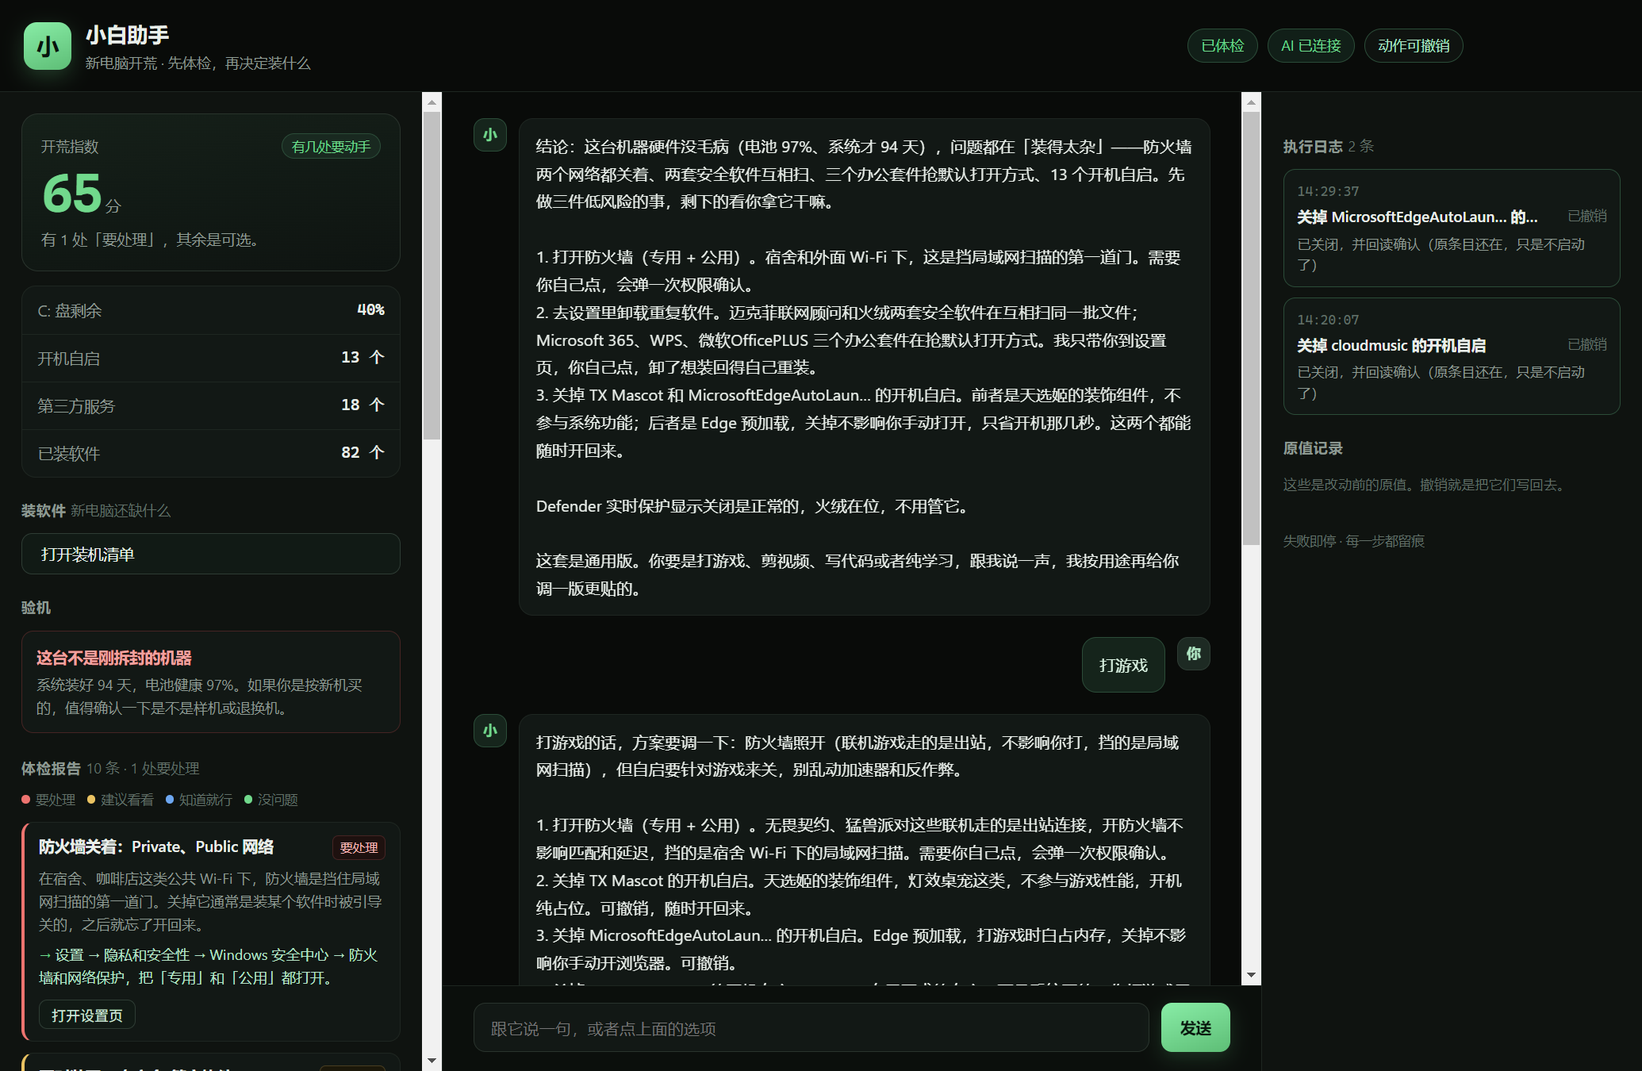
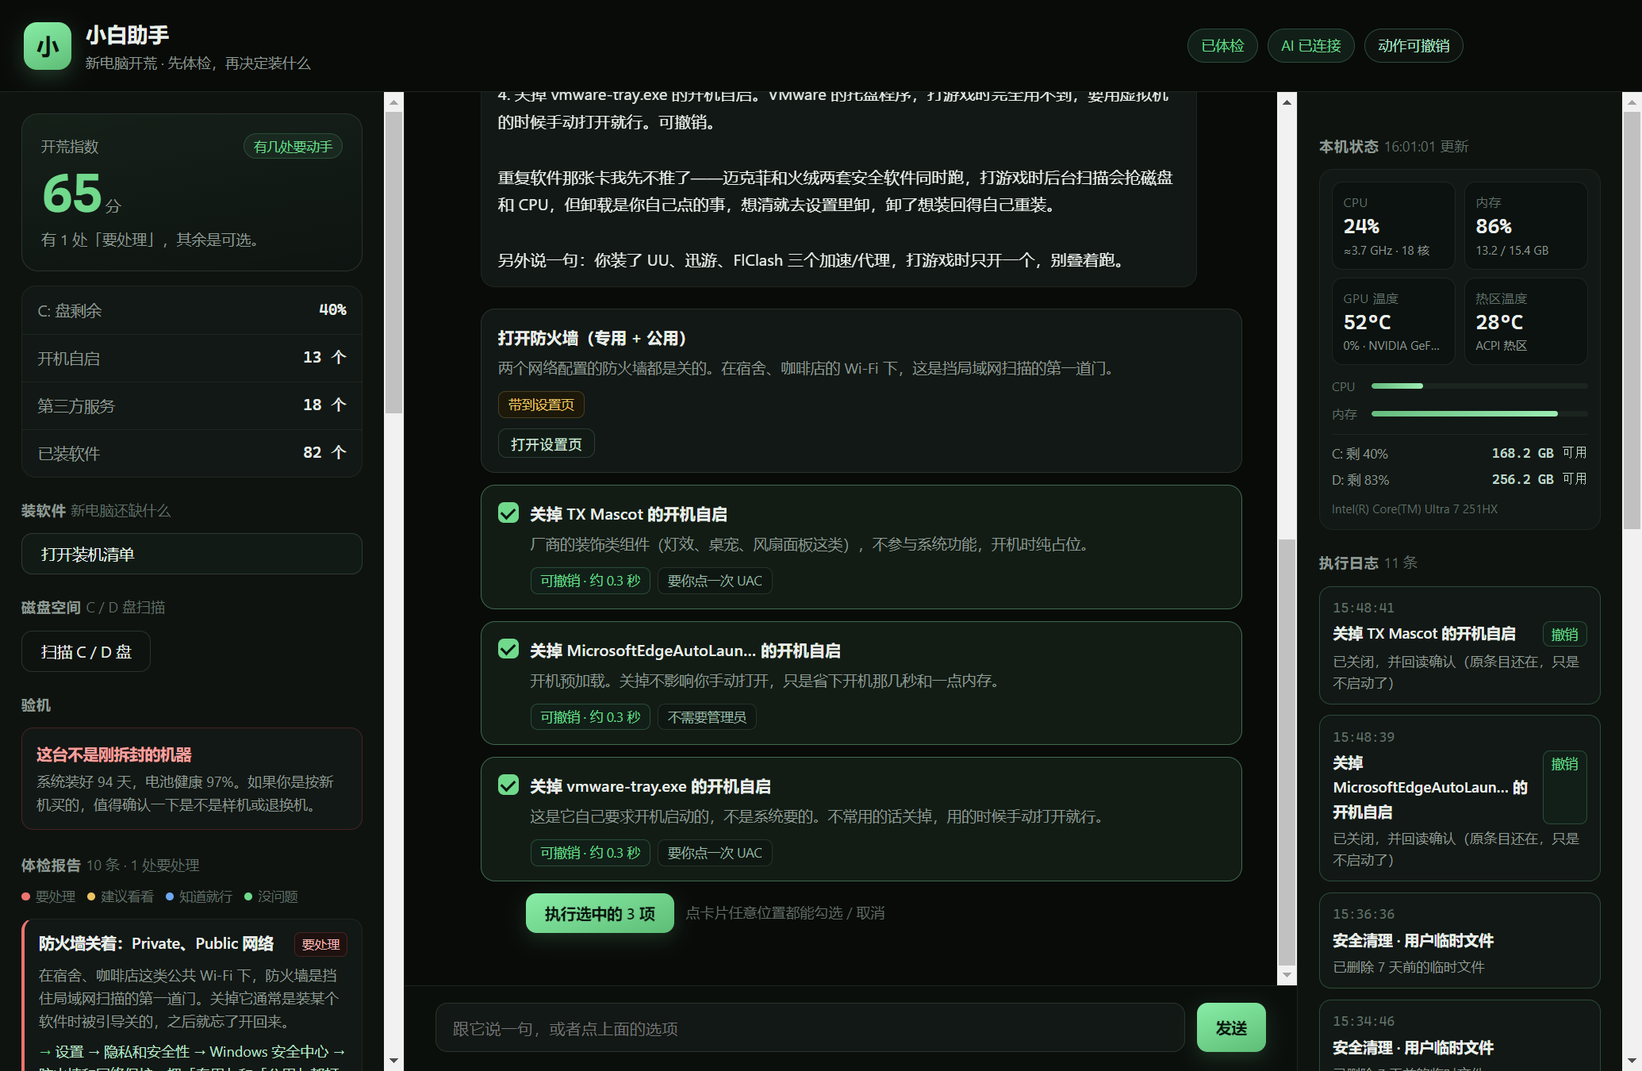
v0.2.15: read-only live CPU, memory, GPU and thermal status panel

diff --git a/docs/agent-demo.html b/docs/agent-demo.html
@@ -243,7 +243,27 @@ body.desktop .top .pill,body.desktop .top button{-webkit-app-region:no-drag}
 .btn.clean{background:#2a1f12;color:#ffcf9a;border-color:#5a4124}
 .btn.clean:hover{border-color:#8a6234}
 .btn.clean:disabled{opacity:.45;cursor:not-allowed}
-@media (max-width:640px){.disk-drives{grid-template-columns:1fr}}.demo-bar{flex:0 0 auto;display:flex;gap:10px;align-items:center;justify-content:center;padding:7px 14px;font-size:12.5px;color:#08150e;background:linear-gradient(90deg,#3ddc84,#7ff0b4)}
+@media (max-width:640px){.disk-drives{grid-template-columns:1fr}}
+
+/* 本机状态（只读遥测） */
+.live{background:var(--panel2);border:1px solid var(--line);border-radius:12px;padding:10px;display:flex;flex-direction:column;gap:8px}
+.live-grid{display:grid;grid-template-columns:1fr 1fr;gap:7px}
+.live-cell{border:1px solid var(--line);border-radius:9px;background:#0b1210;padding:8px 9px;min-width:0}
+.live-cell span{display:block;font-size:10.5px;color:var(--dim2);letter-spacing:.4px}
+.live-cell b{display:block;font:600 19px/1.25 var(--mono);color:var(--text);margin-top:1px}
+.live-cell b.hot{color:#ffb27a}
+.live-cell b.muted-v{color:var(--dim2);font-size:15px}
+.live-cell small{display:block;font-size:10px;color:var(--dim);line-height:1.45;margin-top:2px;overflow:hidden;text-overflow:ellipsis;white-space:nowrap}
+.live-bars{display:flex;flex-direction:column;gap:6px;margin-top:1px}
+.live-bar{display:flex;align-items:center;gap:7px;font-size:10.5px;color:var(--dim2)}
+.live-bar span{flex:0 0 26px}
+.live-bar i{flex:1;height:5px;border-radius:99px;background:#1a2420;overflow:hidden}
+.live-bar i em{display:block;height:100%;border-radius:99px;background:linear-gradient(90deg,#3fbf79,#7ff0ad)}
+.live-disks{border-top:1px solid var(--line);padding-top:7px;display:flex;flex-direction:column;gap:4px}
+.live-disk{display:flex;justify-content:space-between;gap:8px;font-size:11px;color:var(--dim)}
+.live-disk b{font-family:var(--mono);font-weight:500;color:#b9d8c6;white-space:nowrap}
+.live-model{font-size:10px;color:var(--dim2);line-height:1.45;overflow:hidden;text-overflow:ellipsis;white-space:nowrap}
+@media (max-width:1380px){.grid{grid-template-columns:340px minmax(380px,1fr) 290px}.live-cell b{font-size:17px}}.demo-bar{flex:0 0 auto;display:flex;gap:10px;align-items:center;justify-content:center;padding:7px 14px;font-size:12.5px;color:#08150e;background:linear-gradient(90deg,#3ddc84,#7ff0b4)}
 .demo-bar b{font-weight:700}
 .demo-bar span{opacity:.78}
 </style>
@@ -310,8 +330,12 @@ body.desktop .top .pill,body.desktop .top button{-webkit-app-region:no-drag}
     </div>
   </section>
 
-  <!-- 右：执行日志 -->
+  <!-- 右：本机状态 + 执行日志 -->
   <aside class="col right">
+    <section class="block live-block">
+      <h2>本机状态 <span class="hint" id="liveAt">读取中</span></h2>
+      <div class="live" id="live"><p class="muted small">正在读 CPU、内存、温度和磁盘…</p></div>
+    </section>
     <section class="block">
       <h2>执行日志 <span class="hint" id="logCount"></span></h2>
       <div class="log" id="log"><p class="muted">还没有执行任何动作。</p></div>
@@ -441,6 +465,15 @@ window.fetch = async (url, opt) => {
     await sleep(180);
     return j({ ok: true, detail: '已恢复原样', ms: 210 });
   }
+  if (p === '/api/live') return j({
+    demo: true, at: Date.now(),
+    cpu: { model: '演示数据 · 不读取本机', cores: 8, usage: 23, baseGhz: 2.5, ghz: 3.4 },
+    mem: { total: 16 * 1024 ** 3, free: 3 * 1024 ** 3, used: 13 * 1024 ** 3, pct: 81 },
+    disks: [{ letter: 'C', total: 420 * 1024 ** 3, free: 165 * 1024 ** 3, used: 255 * 1024 ** 3, pct: 61 }, { letter: 'D', total: 308 * 1024 ** 3, free: 256 * 1024 ** 3, used: 52 * 1024 ** 3, pct: 17 }],
+    thermal: { c: 48, source: '演示数据' },
+    gpu: { name: 'NVIDIA GeForce（演示）', temp: 56, util: 12 },
+    probeReady: true, uptime: 3600,
+  });
   if (p === '/api/disk') return j({
     at: Date.now(), tookMs: 1800,
     drives: [{ letter: 'C', exists: true, total: 420 * 1024 ** 3, free: 165 * 1024 ** 3, used: 255 * 1024 ** 3 }, { letter: 'D', exists: true, total: 308 * 1024 ** 3, free: 256 * 1024 ** 3, used: 52 * 1024 ** 3 }],
@@ -1068,6 +1101,71 @@ async function runClean() {
 function closeDisk() { $('#diskModal').hidden = true; }
 
 
+/* ---------------- 本机状态（只读遥测） ---------------- */
+let liveTimer = null;
+function fmtGB(n) { return (Number(n || 0) / 1073741824).toFixed(1); }
+function liveCell(label, value, sub, cls) {
+  const c = el('div', 'live-cell');
+  c.append(el('span', null, label));
+  const b = el('b', cls || null, value);
+  c.append(b, el('small', null, sub || ''));
+  return c;
+}
+function liveBar(label, pct) {
+  const row = el('div', 'live-bar');
+  row.append(el('span', null, label));
+  const bar = el('i'); const fill = el('em');
+  fill.style.width = Math.max(0, Math.min(100, Number(pct) || 0)) + '%';
+  bar.append(fill); row.append(bar);
+  return row;
+}
+function renderLive(d) {
+  const box = $('#live');
+  if (!box || !d) return;
+  const cpu = d.cpu || {}; const mem = d.mem || {}; const gpu = d.gpu; const th = d.thermal;
+  box.innerHTML = '';
+  const grid = el('div', 'live-grid');
+  const cpuSub = [cpu.ghz ? '≈' + Number(cpu.ghz).toFixed(1) + ' GHz' : (cpu.baseGhz ? Number(cpu.baseGhz).toFixed(1) + ' GHz 基准' : ''), (cpu.cores || '') + ' 核'].filter(Boolean).join(' · ');
+  grid.append(liveCell('CPU', (cpu.usage != null ? cpu.usage : '—') + '%', cpuSub));
+  grid.append(liveCell('内存', (mem.pct != null ? mem.pct : '—') + '%', fmtGB(mem.used) + ' / ' + fmtGB(mem.total) + ' GB'));
+  const gpuVal = gpu && gpu.temp != null ? Math.round(gpu.temp) + '°C' : '—';
+  const gpuSub = gpu ? ((gpu.util != null ? gpu.util + '% · ' : '') + String(gpu.name || 'NVIDIA GPU')) : (d.probeReady ? '未检测到 NVIDIA' : '读取中…');
+  grid.append(liveCell('GPU 温度', gpuVal, gpuSub, gpu && gpu.temp >= 75 ? 'hot' : (gpu ? null : 'muted-v')));
+  const thVal = th && th.c != null ? Math.round(th.c) + '°C' : '—';
+  const thSub = th ? (th.source || 'ACPI 热区') : (d.probeReady ? '此机不提供' : '读取中…');
+  grid.append(liveCell('热区温度', thVal, thSub, th && th.c >= 80 ? 'hot' : (th ? null : 'muted-v')));
+  box.append(grid);
+  const bars = el('div', 'live-bars');
+  bars.append(liveBar('CPU', cpu.usage), liveBar('内存', mem.pct));
+  box.append(bars);
+  const disks = el('div', 'live-disks');
+  for (const x of (d.disks || [])) {
+    const row = el('div', 'live-disk');
+    row.append(el('span', null, x.letter + ':' + (x.pct != null ? ' 剩 ' + (100 - x.pct) + '%' : '')), el('b', null, fmtSize(x.free) + ' 可用'));
+    disks.append(row);
+  }
+  if (disks.childNodes.length) box.append(disks);
+  const model = el('div', 'live-model', String(cpu.model || ''));
+  box.append(model);
+  const at = $('#liveAt');
+  if (at) {
+    if (d.demo) at.textContent = '静态演示';
+    else {
+      const t = new Date(d.at || Date.now());
+      at.textContent = [t.getHours(), t.getMinutes(), t.getSeconds()].map(n => String(n).padStart(2, '0')).join(':') + ' 更新';
+    }
+  }
+}
+async function refreshLive() {
+  if (document.hidden) return;
+  try { renderLive(await api('/api/live')); } catch {}
+}
+function startLive() {
+  if (liveTimer) return;
+  refreshLive();
+  liveTimer = setInterval(refreshLive, 3000);
+}
+
 /* ---------------- 体检流程 ---------------- */
 function showScan() {
   const t = $('#thread');
@@ -1130,6 +1228,7 @@ async function greet() {
 }
 
 async function boot() {
+  startLive();
   const st = await api('/api/state');
   S.ai = !!st.ai; S.model = st.model;
   $('#pillAI').textContent = st.ai ? 'AI 已连接' : '本地规则';

diff --git a/app/ui/app.js b/app/ui/app.js
@@ -588,6 +588,71 @@ async function runClean() {
 function closeDisk() { $('#diskModal').hidden = true; }
 
 
+/* ---------------- 本机状态（只读遥测） ---------------- */
+let liveTimer = null;
+function fmtGB(n) { return (Number(n || 0) / 1073741824).toFixed(1); }
+function liveCell(label, value, sub, cls) {
+  const c = el('div', 'live-cell');
+  c.append(el('span', null, label));
+  const b = el('b', cls || null, value);
+  c.append(b, el('small', null, sub || ''));
+  return c;
+}
+function liveBar(label, pct) {
+  const row = el('div', 'live-bar');
+  row.append(el('span', null, label));
+  const bar = el('i'); const fill = el('em');
+  fill.style.width = Math.max(0, Math.min(100, Number(pct) || 0)) + '%';
+  bar.append(fill); row.append(bar);
+  return row;
+}
+function renderLive(d) {
+  const box = $('#live');
+  if (!box || !d) return;
+  const cpu = d.cpu || {}; const mem = d.mem || {}; const gpu = d.gpu; const th = d.thermal;
+  box.innerHTML = '';
+  const grid = el('div', 'live-grid');
+  const cpuSub = [cpu.ghz ? '≈' + Number(cpu.ghz).toFixed(1) + ' GHz' : (cpu.baseGhz ? Number(cpu.baseGhz).toFixed(1) + ' GHz 基准' : ''), (cpu.cores || '') + ' 核'].filter(Boolean).join(' · ');
+  grid.append(liveCell('CPU', (cpu.usage != null ? cpu.usage : '—') + '%', cpuSub));
+  grid.append(liveCell('内存', (mem.pct != null ? mem.pct : '—') + '%', fmtGB(mem.used) + ' / ' + fmtGB(mem.total) + ' GB'));
+  const gpuVal = gpu && gpu.temp != null ? Math.round(gpu.temp) + '°C' : '—';
+  const gpuSub = gpu ? ((gpu.util != null ? gpu.util + '% · ' : '') + String(gpu.name || 'NVIDIA GPU')) : (d.probeReady ? '未检测到 NVIDIA' : '读取中…');
+  grid.append(liveCell('GPU 温度', gpuVal, gpuSub, gpu && gpu.temp >= 75 ? 'hot' : (gpu ? null : 'muted-v')));
+  const thVal = th && th.c != null ? Math.round(th.c) + '°C' : '—';
+  const thSub = th ? (th.source || 'ACPI 热区') : (d.probeReady ? '此机不提供' : '读取中…');
+  grid.append(liveCell('热区温度', thVal, thSub, th && th.c >= 80 ? 'hot' : (th ? null : 'muted-v')));
+  box.append(grid);
+  const bars = el('div', 'live-bars');
+  bars.append(liveBar('CPU', cpu.usage), liveBar('内存', mem.pct));
+  box.append(bars);
+  const disks = el('div', 'live-disks');
+  for (const x of (d.disks || [])) {
+    const row = el('div', 'live-disk');
+    row.append(el('span', null, x.letter + ':' + (x.pct != null ? ' 剩 ' + (100 - x.pct) + '%' : '')), el('b', null, fmtSize(x.free) + ' 可用'));
+    disks.append(row);
+  }
+  if (disks.childNodes.length) box.append(disks);
+  const model = el('div', 'live-model', String(cpu.model || ''));
+  box.append(model);
+  const at = $('#liveAt');
+  if (at) {
+    if (d.demo) at.textContent = '静态演示';
+    else {
+      const t = new Date(d.at || Date.now());
+      at.textContent = [t.getHours(), t.getMinutes(), t.getSeconds()].map(n => String(n).padStart(2, '0')).join(':') + ' 更新';
+    }
+  }
+}
+async function refreshLive() {
+  if (document.hidden) return;
+  try { renderLive(await api('/api/live')); } catch {}
+}
+function startLive() {
+  if (liveTimer) return;
+  refreshLive();
+  liveTimer = setInterval(refreshLive, 3000);
+}
+
 /* ---------------- 体检流程 ---------------- */
 function showScan() {
   const t = $('#thread');
@@ -650,6 +715,7 @@ async function greet() {
 }
 
 async function boot() {
+  startLive();
   const st = await api('/api/state');
   S.ai = !!st.ai; S.model = st.model;
   $('#pillAI').textContent = st.ai ? 'AI 已连接' : '本地规则';

diff --git a/app/ui/app.css b/app/ui/app.css
@@ -237,3 +237,23 @@ body.desktop .top .pill,body.desktop .top button{-webkit-app-region:no-drag}
 .btn.clean:hover{border-color:#8a6234}
 .btn.clean:disabled{opacity:.45;cursor:not-allowed}
 @media (max-width:640px){.disk-drives{grid-template-columns:1fr}}
+
+/* 本机状态（只读遥测） */
+.live{background:var(--panel2);border:1px solid var(--line);border-radius:12px;padding:10px;display:flex;flex-direction:column;gap:8px}
+.live-grid{display:grid;grid-template-columns:1fr 1fr;gap:7px}
+.live-cell{border:1px solid var(--line);border-radius:9px;background:#0b1210;padding:8px 9px;min-width:0}
+.live-cell span{display:block;font-size:10.5px;color:var(--dim2);letter-spacing:.4px}
+.live-cell b{display:block;font:600 19px/1.25 var(--mono);color:var(--text);margin-top:1px}
+.live-cell b.hot{color:#ffb27a}
+.live-cell b.muted-v{color:var(--dim2);font-size:15px}
+.live-cell small{display:block;font-size:10px;color:var(--dim);line-height:1.45;margin-top:2px;overflow:hidden;text-overflow:ellipsis;white-space:nowrap}
+.live-bars{display:flex;flex-direction:column;gap:6px;margin-top:1px}
+.live-bar{display:flex;align-items:center;gap:7px;font-size:10.5px;color:var(--dim2)}
+.live-bar span{flex:0 0 26px}
+.live-bar i{flex:1;height:5px;border-radius:99px;background:#1a2420;overflow:hidden}
+.live-bar i em{display:block;height:100%;border-radius:99px;background:linear-gradient(90deg,#3fbf79,#7ff0ad)}
+.live-disks{border-top:1px solid var(--line);padding-top:7px;display:flex;flex-direction:column;gap:4px}
+.live-disk{display:flex;justify-content:space-between;gap:8px;font-size:11px;color:var(--dim)}
+.live-disk b{font-family:var(--mono);font-weight:500;color:#b9d8c6;white-space:nowrap}
+.live-model{font-size:10px;color:var(--dim2);line-height:1.45;overflow:hidden;text-overflow:ellipsis;white-space:nowrap}
+@media (max-width:1380px){.grid{grid-template-columns:340px minmax(380px,1fr) 290px}.live-cell b{font-size:17px}}

diff --git a/app/ui/demo-shim.js b/app/ui/demo-shim.js
@@ -74,6 +74,15 @@ window.fetch = async (url, opt) => {
     await sleep(180);
     return j({ ok: true, detail: '已恢复原样', ms: 210 });
   }
+  if (p === '/api/live') return j({
+    demo: true, at: Date.now(),
+    cpu: { model: '演示数据 · 不读取本机', cores: 8, usage: 23, baseGhz: 2.5, ghz: 3.4 },
+    mem: { total: 16 * 1024 ** 3, free: 3 * 1024 ** 3, used: 13 * 1024 ** 3, pct: 81 },
+    disks: [{ letter: 'C', total: 420 * 1024 ** 3, free: 165 * 1024 ** 3, used: 255 * 1024 ** 3, pct: 61 }, { letter: 'D', total: 308 * 1024 ** 3, free: 256 * 1024 ** 3, used: 52 * 1024 ** 3, pct: 17 }],
+    thermal: { c: 48, source: '演示数据' },
+    gpu: { name: 'NVIDIA GeForce（演示）', temp: 56, util: 12 },
+    probeReady: true, uptime: 3600,
+  });
   if (p === '/api/disk') return j({
     at: Date.now(), tookMs: 1800,
     drives: [{ letter: 'C', exists: true, total: 420 * 1024 ** 3, free: 165 * 1024 ** 3, used: 255 * 1024 ** 3 }, { letter: 'D', exists: true, total: 308 * 1024 ** 3, free: 256 * 1024 ** 3, used: 52 * 1024 ** 3 }],

diff --git a/app/ui/index.html b/app/ui/index.html
@@ -68,8 +68,12 @@
     </div>
   </section>
 
-  <!-- 右：执行日志 -->
+  <!-- 右：本机状态 + 执行日志 -->
   <aside class="col right">
+    <section class="block live-block">
+      <h2>本机状态 <span class="hint" id="liveAt">读取中</span></h2>
+      <div class="live" id="live"><p class="muted small">正在读 CPU、内存、温度和磁盘…</p></div>
+    </section>
     <section class="block">
       <h2>执行日志 <span class="hint" id="logCount"></span></h2>
       <div class="log" id="log"><p class="muted">还没有执行任何动作。</p></div>

diff --git a/README.md b/README.md
@@ -2,7 +2,7 @@
 
 > 新电脑开荒：先体检，再决定装什么。
 
-**v0.2.14 · Agent 版**：一个能真的动手、也能真的撤回的桌面程序。双击 → 20 秒体检 → 直接说用途（打游戏、剪视频、写代码、学习）→ AI 先给一套方案和动作卡片 → 你点头，点执行逐条生效 → 不满意，点撤销，三秒回到原样。新电脑缺微信、网易云这些常用软件，左边「装软件」里勾一下就能装；C / D 盘也能扫一遍，看空间被谁占了；临时文件和回收站可以在应用里勾选清理（二次确认），其余缓存带你到 Windows 存储感知。
+**v0.2.15 · Agent 版**：一个能真的动手、也能真的撤回的桌面程序。双击 → 20 秒体检 → 直接说用途（打游戏、剪视频、写代码、学习）→ AI 先给一套方案和动作卡片 → 你点头，点执行逐条生效 → 不满意，点撤销，三秒回到原样。新电脑缺微信、网易云这些常用软件，左边「装软件」里勾一下就能装；C / D 盘也能扫一遍，看空间被谁占了；临时文件和回收站可以在应用里勾选清理（二次确认），其余缓存带你到 Windows 存储感知。
 
 对话是主路径，不是表单：说「打游戏」就直接给游戏方案（先关装饰自启、开防火墙、重复软件带路），不再反问「主要玩什么」；说「就按这个来」方案不变，勾选保留；说「不用了」卡片撤掉；问「TX Mascot 是干什么的」「迈克菲能删吗」「怎么撤销」直接答，答不上来就说不知道。点卡片任意位置都能勾选，不用非得戳那个小方块。
 
@@ -20,7 +20,7 @@
 
 ## v0.2 桌面版怎么跑
 
-1. 从 [Releases](https://github.com/NI-haoyang/kaiguang/releases) 下载 `xiaobai-v0.2.14-win64.zip`（约 113 MB，含 Electron 运行时，不用装 Node、不用联网）。
+1. 从 [Releases](https://github.com/NI-haoyang/kaiguang/releases) 下载 `xiaobai-v0.2.15-win64.zip`（约 113 MB，含 Electron 运行时，不用装 Node、不用联网）。
 2. **把整个 zip 解压到一个空文件夹**，再双击文件夹里的 `小白助手.exe`。
    - 不要只把 exe 复制出来，也不要在压缩软件里直接双击 exe —— Windows 只会把 exe 单独解到临时目录，DLL 和 resources 没跟过来，就会报「找不到 ffmpeg.dll」。
    - 不确定的话，先双击同目录的 `启动前检查.bat`，它会告诉你缺了什么。
@@ -28,6 +28,16 @@
 4. 勾选要做的，点「执行选中的 N 项」；想反悔，点左下角「全部撤销」。
 
 没有 API key 也能完整跑：不填 key 时用本地规则引擎出方案，体检、执行、撤销一个不少。点右上角「本地规则 / AI 已连接」，可以填自己的 DeepSeek key，让 AI 直接给方案、解释每一项、回答「TX Mascot 是干什么的 / 能不能删 / 怎么退」这类追问（key 只存在本机 `%LOCALAPPDATA%\Kaiguang\settings.json`，不上传）。
+
+### 本机状态：CPU、内存、温度、磁盘
+
+右栏顶部常驻一小块「本机状态」，每 3 秒刷新一次：CPU 使用率、近似频率、核心数，内存占用，C / D 剩余，以及 GPU 温度和 ACPI 热区温度。只读，不装驱动、不提权。
+
+- **CPU 频率是近似值**：用 Windows 的 `PercentProcessorPerformance` × 基准频率估算，不是硬件计数器；标「≈」。
+- **GPU 温度只对 NVIDIA 有效**：走系统自带的 `nvidia-smi`；没有 NVIDIA 显卡就写「未检测到 NVIDIA」。
+- **热区温度不是核心温度**：Windows 没有统一的 CPU 核心温度接口，只能读 ACPI 热区；读不到就写「此机不提供」，不编数字。
+
+![本机状态：CPU、内存、温度、磁盘](docs/img/agent-live.png)
 
 ### AI 负责想，本地负责兜底
 

diff --git a/docs/报名提交.md b/docs/报名提交.md
@@ -8,12 +8,12 @@
 
 **在线 Demo（只读版）**：https://ni-haoyang.github.io/kaiguang/
 
-**桌面版（能真的动手，能真的撤销）**：[Releases v0.2.14](https://github.com/NI-haoyang/kaiguang/releases) 下载 zip（约 113 MB，含运行时，不用装 Node、不用联网），解压后双击 `小白助手.exe`。
+**桌面版（能真的动手，能真的撤销）**：[Releases v0.2.15](https://github.com/NI-haoyang/kaiguang/releases) 下载 zip（约 113 MB，含运行时，不用装 Node、不用联网），解压后双击 `小白助手.exe`。
 
 **代码仓库**：https://github.com/NI-haoyang/kaiguang
 
 **三十秒怎么看出它有用**：
-双击 `小白助手.exe` → 自动体检 20 秒 → 开荒指数 70 分，左边列出「1 处要处理、其余可选」→ 中间直接打「打游戏」，AI 先给一套游戏方案，再列出 4–5 张动作卡（防火墙、关装饰自启、重复软件带路），每张写明为什么、影响什么、能不能退 → 说「就按这个来」，方案不变、勾选保留 → 点执行，0.8 秒逐条变绿；重复软件只把你带到设置页，不代劳 → 点「全部撤销」，3 秒回到原样。新电脑缺微信/网易云，点左边「装软件」，勾一下装好，日志里同样能撤销。想看 C / D 盘被谁占了，点左边「磁盘空间」，几秒钟出缓存、临时文件、回收站和目录占用；扫完可以勾选清临时文件和回收站（二次确认，删了退不回）；其他缓存交给「打开存储感知」。
+双击 `小白助手.exe` → 自动体检 20 秒 → 开荒指数 70 分，左边列出「1 处要处理、其余可选」→ 中间直接打「打游戏」，AI 先给一套游戏方案，再列出 4–5 张动作卡（防火墙、关装饰自启、重复软件带路），每张写明为什么、影响什么、能不能退 → 说「就按这个来」，方案不变、勾选保留 → 点执行，0.8 秒逐条变绿；重复软件只把你带到设置页，不代劳 → 点「全部撤销」，3 秒回到原样。新电脑缺微信/网易云，点左边「装软件」，勾一下装好，日志里同样能撤销。想看 C / D 盘被谁占了，点左边「磁盘空间」，几秒钟出缓存、临时文件、回收站和目录占用；扫完可以勾选清临时文件和回收站（二次确认，删了退不回）；其他缓存交给「打开存储感知」。右栏顶部一直显示本机状态：CPU 使用率和近似频率、内存、C / D 剩余、GPU 温度和 ACPI 热区温度；只读，不装驱动。
 
 静态交互演示只演示卡片、执行和撤销的视觉，对话流程以桌面版为准。
 一句话总结：**同类工具只给清单，我们负责执行，并且保证能退。**
@@ -34,7 +34,7 @@
 - 本地服务只监听 `127.0.0.1`，而且每次启动生成一次性口令、所有接口都要带；别的网页拿不到口令，就没法替你按「执行」。
 - 不承诺「一键变快」，只承诺「改了什么你能看见，改错了你能退回」。
 
-**技术栈**：Electron 33 套壳（约 268 MB 目录，自带运行时）+ 原生 Node HTTP 服务（127.0.0.1 随机端口）+ PowerShell 只读采集 + Node 只读扫盘 / 安全清理 + 注册表 StartupApproved 关自启 / 撤销。没有云服务，数据不出本机。
+**技术栈**：Electron 33 套壳（约 268 MB 目录，自带运行时）+ 原生 Node HTTP 服务（127.0.0.1 随机端口）+ PowerShell 只读采集 + Node 只读扫盘 / 安全清理 + Node 只读硬件遥测（CPU / 内存 / NVIDIA GPU / ACPI 热区）+ 注册表 StartupApproved 关自启 / 撤销。没有云服务，数据不出本机。
 
 ---
 
